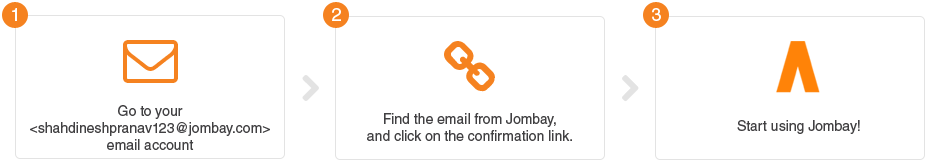
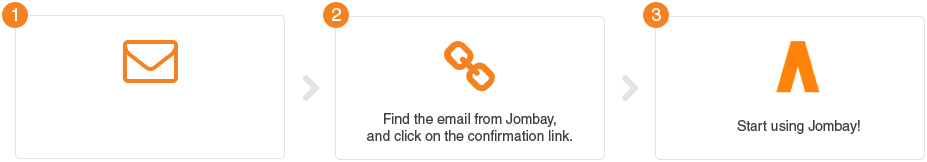
Sign up page updated

Changed region(s): [[0.0302, 0.6481, 0.302, 0.8333], [0.0906, 0.8642, 0.2114, 0.9259]]

diff --git a/app/assets/stylesheets/toolkit/main-layout.sass b/app/assets/stylesheets/toolkit/main-layout.sass
@@ -8,5 +8,13 @@
 // Container (centered, fixed-width layouts)
 .container
   +container-fixed
+.sign_up_success
+  .image_visual
+    position: relative
+    .text
+      left: 37px
+      position: absolute
+      top: 102px
+      line-height: 17px
 
 
